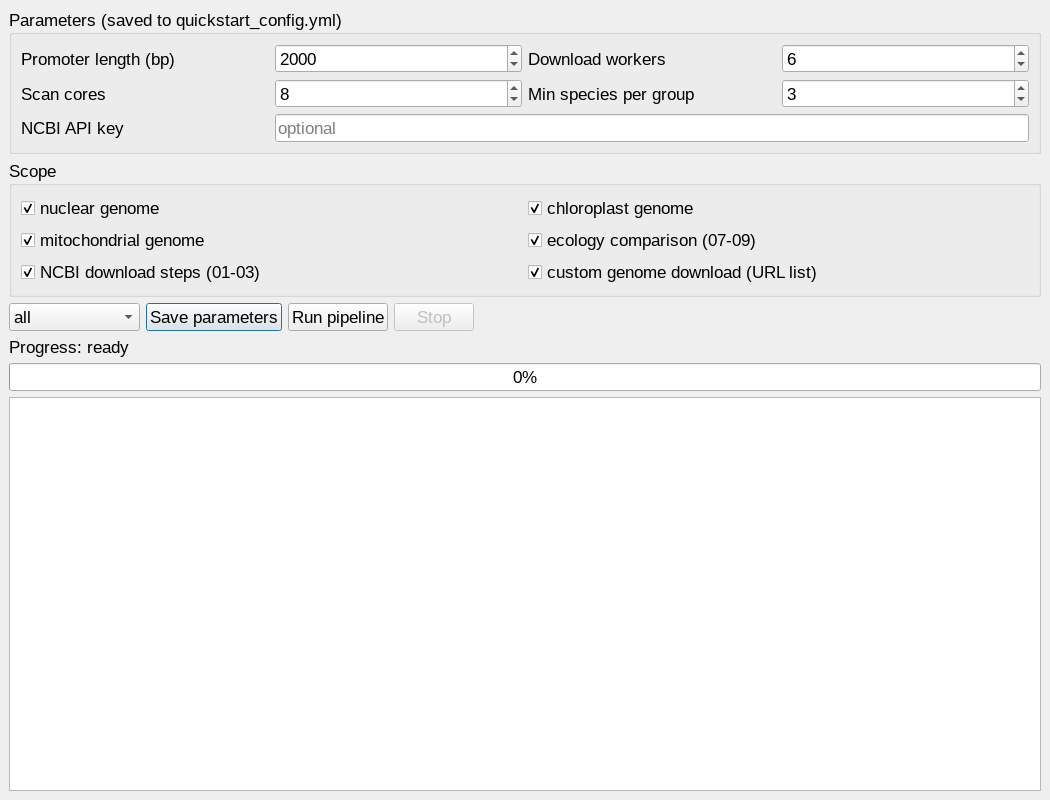
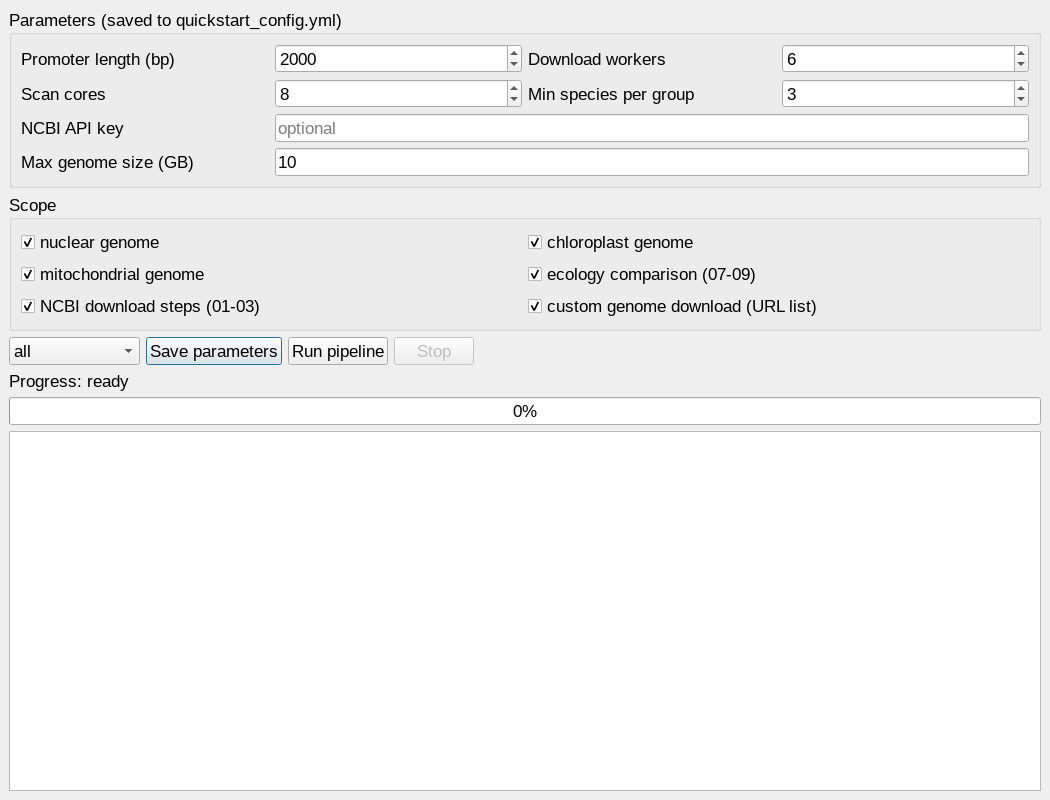
docs: v1.3.33 max genome size setting in the GUI

diff --git a/docs/conf.py b/docs/conf.py
@@ -9,8 +9,8 @@ author = "sunshadeCisseeker developers"
 copyright = "2026, sunshadeCisseeker developers"
 
 # The short X.Y version and the full release version.
-version = "v1.3.32"
-release = "v1.3.32"
+version = "v1.3.33"
+release = "v1.3.33"
 
 extensions = [
     "sphinx.ext.autosectionlabel",

diff --git a/docs/content/GUI.rst b/docs/content/GUI.rst
@@ -41,10 +41,12 @@ There are exactly six sliding pages, in this order:
 
 Each analysis page shows the step description, the result directory hint and
 a live log panel. The three genome pages additionally offer an **NCBI API key
-(optional)** input: the value is written to ``quickstart_config.yml`` when the
-field loses focus and before every run starts (same entry as the Run Pipeline
-window). A screenshot of every page and popup, with explanations, is on the
-:doc:`Screenshots` page.
+(optional)** input and a **Max genome size (GB)** input: both are written to
+``quickstart_config.yml`` when the field loses focus and before every run
+starts (same entries as the Run Pipeline window). The genome-size cap skips
+genomes whose FASTA file exceeds that on-disk size (GB); it ships pre-filled
+with ``10`` and can be cleared for no limit. A screenshot of every page and
+popup, with explanations, is on the :doc:`Screenshots` page.
 
 Menu bar
 --------

diff --git a/docs/content/Configuration.rst b/docs/content/Configuration.rst
@@ -25,8 +25,8 @@ Three user-editable files drive the whole analysis.
      - ``"3"``
      - minimum species per ecology group for a statistical test
    * - ``max_genome_gb``
-     - ``""``
-     - skip genomes whose FASTA file exceeds this on-disk size (GB); empty or ``"0"`` = no limit. An oversized genome is recorded as ``skipped`` in the step-04 pair summary and never blocks the run (e.g. ``"2"`` skips a 2.7 GB archive)
+     - ``"10"``
+     - skip genomes whose FASTA file exceeds this on-disk size (GB); empty or ``"0"`` = no limit. An oversized genome is recorded as ``skipped`` in the step-04 pair summary and never blocks the run. Editable in the GUI on the three genome pages and the Run Pipeline page (pre-filled with the default)
    * - ``ncbi_api_key``
      - ``""``
      - optional NCBI API key (10 req/s instead of 3; far fewer throttling failures)

diff --git a/docs/content/Changelog.rst b/docs/content/Changelog.rst
@@ -1,6 +1,18 @@
 Changelog
 =========
 
+1.3.33 — genome-size cap in the GUI
+-----------------------------------
+
+* **The genome-size upper limit is now a GUI setting.** The three genome pages
+  (Nuclear / Chloroplast / Mitochondrial) and the Run Pipeline window each
+  show a **Max genome size (GB)** input next to the other parameters; it is
+  pre-filled with the default ``10`` and saved to ``quickstart_config.yml``
+  when the field loses focus and before every run starts. Genomes whose FASTA
+  file exceeds the value (on-disk size, GB) are skipped by step 04 as
+  ``skipped`` and never block the run; clear the field (or set ``0``) for no
+  limit.
+
 1.3.32 — genome-size cap replaces the exclusion list
 ----------------------------------------------------
 

diff --git a/docs/content/About sunshadeCisseeker.rst b/docs/content/About sunshadeCisseeker.rst
@@ -4,7 +4,7 @@ About sunshadeCisseeker
 sunshadeCisseeker identifies, annotates and compares promoter
 cis-regulatory elements across sun / facultative / shade plants.
 
-The current release is **1.3.32**; see :doc:`Changelog` for what changed in
+The current release is **1.3.33**; see :doc:`Changelog` for what changed in
 each version.
 
 Highlights
